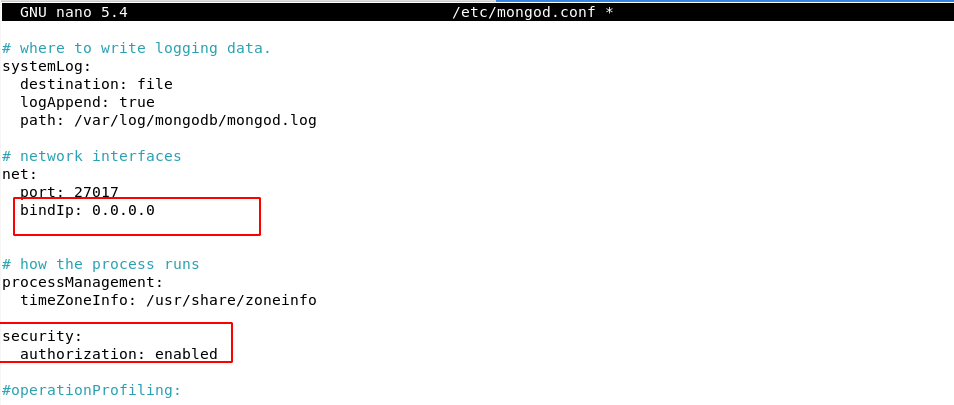
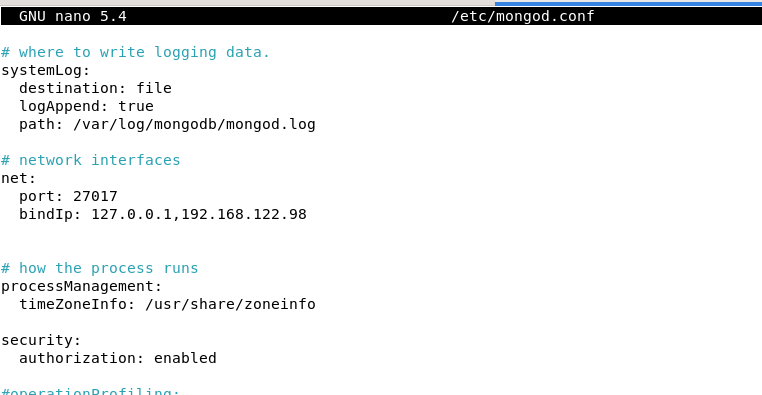
He terminado parte grupal herramienta MongoDB

diff --git a/docs/rg/herramienta-mongodb.md b/docs/rg/herramienta-mongodb.md
@@ -1,4 +1,87 @@
 # Herramienta web MongoDB
 
+## MongoDB-PHP-GUI
 
-Instalacion de una herraminta de administracion web para MongoDB y prueba desde un cliente remoto.
+https://github.com/SamuelTallet/MongoDB-PHP-GUI
+
+### 1. Configuración previa
+
+Antes de instalar el contenedor vamos a instalar docker con los siguientes pasos.
+
+```
+curl -fsSL https://download.docker.com/linux/debian/gpg | sudo gpg --dearmor -o /usr/share/keyrings/docker-archive-keyring.gpg
+```
+
+```
+echo "deb [arch=amd64 signed-by=/usr/share/keyrings/docker-archive-keyring.gpg] https://download.docker.com/linux/debian $(lsb_release -cs) stable" | sudo tee /etc/apt/sources.list.d/docker.list > /dev/null
+```
+
+Actualizar los repositorios e instalar docker.
+
+`sudo apt update`
+
+`sudo apt install docker-ce docker-ce-cli containerd.io`
+
+Comprobar si están activados los servicios.
+
+`systemctl status docker containerd`
+
+
+### 2. Instalación MongoDB-PHP-GUI
+
+Descargamos el contenedor docker.
+
+`sudo docker pull samueltallet/mongodb-php-gui`
+
+### 3. Conexión
+
+Correr el docker con el siguiente comando:
+
+`sudo docker run --add-host localhost:192.168.122.98 --publish 5000:5000 --rm samueltallet/mongodb-php-gui`
+
+Nos aparece una dirección que tendremos que escribir en el navegador. En mi caso es "http://0.0.0.0:5000/".
+
+![mongo-url](/img/capturas-arantxa/65.png)
+
+![mongo-gui](/img/capturas-arantxa/64.png)
+
+Escribimos "mongodb://admin:admin@192.168.122.98:27017" y hacemos click en "Login".
+
+![mongo-gui2](/img/capturas-arantxa/66.png)
+
+Nos aparecerán las bases de datos que tenemos en MongoDB.
+
+![mongo-gui3](/img/capturas-arantxa/67.png)
+
+Seleccionamos la base de datos *maravilla* y se nos abre un desplegable con las colecciones. Selecciono la colección película.
+
+![mongo-gui4](/img/capturas-arantxa/68.png)
+
+Tenemos opciones para insertar, borrar, contar o buscar por filtro, y las opciones limit, sort y order.
+
+![mongo-gui5](/img/capturas-arantxa/69.png)
+
+También tenemos arriba pestañas con diferentes opciones, entre ellas para administrar los usuarios.
+
+![mongo-gui6](/img/capturas-arantxa/70.png)
+
+
+
+### 4. Conexión remota
+
+Para conectarnos desde un cliente remotamente solo tendremos que seguir los pasos anteriores y podremos acceder sin ningún problema.
+
+![mongo-gui-remoto](/img/capturas-arantxa/71.png)
+
+En la siguiente captura vemos la ip del cliente desde el que estamos accediendo y al correr docker nos conectamos a la ip del servidor MongoDB.
+
+![mongo-gui-remoto2](/img/capturas-arantxa/72.png)
+
+Copiamos la dirección en el navegador.
+
+![mongo-gui-remoto3](/img/capturas-arantxa/73.png)
+
+Hacemos "Login" y ya abremos entrado de forma remota al servidor MongoDB.
+
+![mongo-gui-remoto4](/img/capturas-arantxa/74.png)
+

diff --git a/docs/ri/alumno3.md b/docs/ri/alumno3.md
@@ -1139,7 +1139,7 @@ Comprobamos con **find**.
 Para poder acceder remotamente habrá que configurar **"mongod.conf"** que se encuentra en */etc/*. Los siguientes valores deben quedar de la siguiente manera:
 
 ```
-bindIp: 0.0.0.0
+bindIp: 127.0.0.1,192.168.122.98
 security:
   authorization: enabled
 ```
